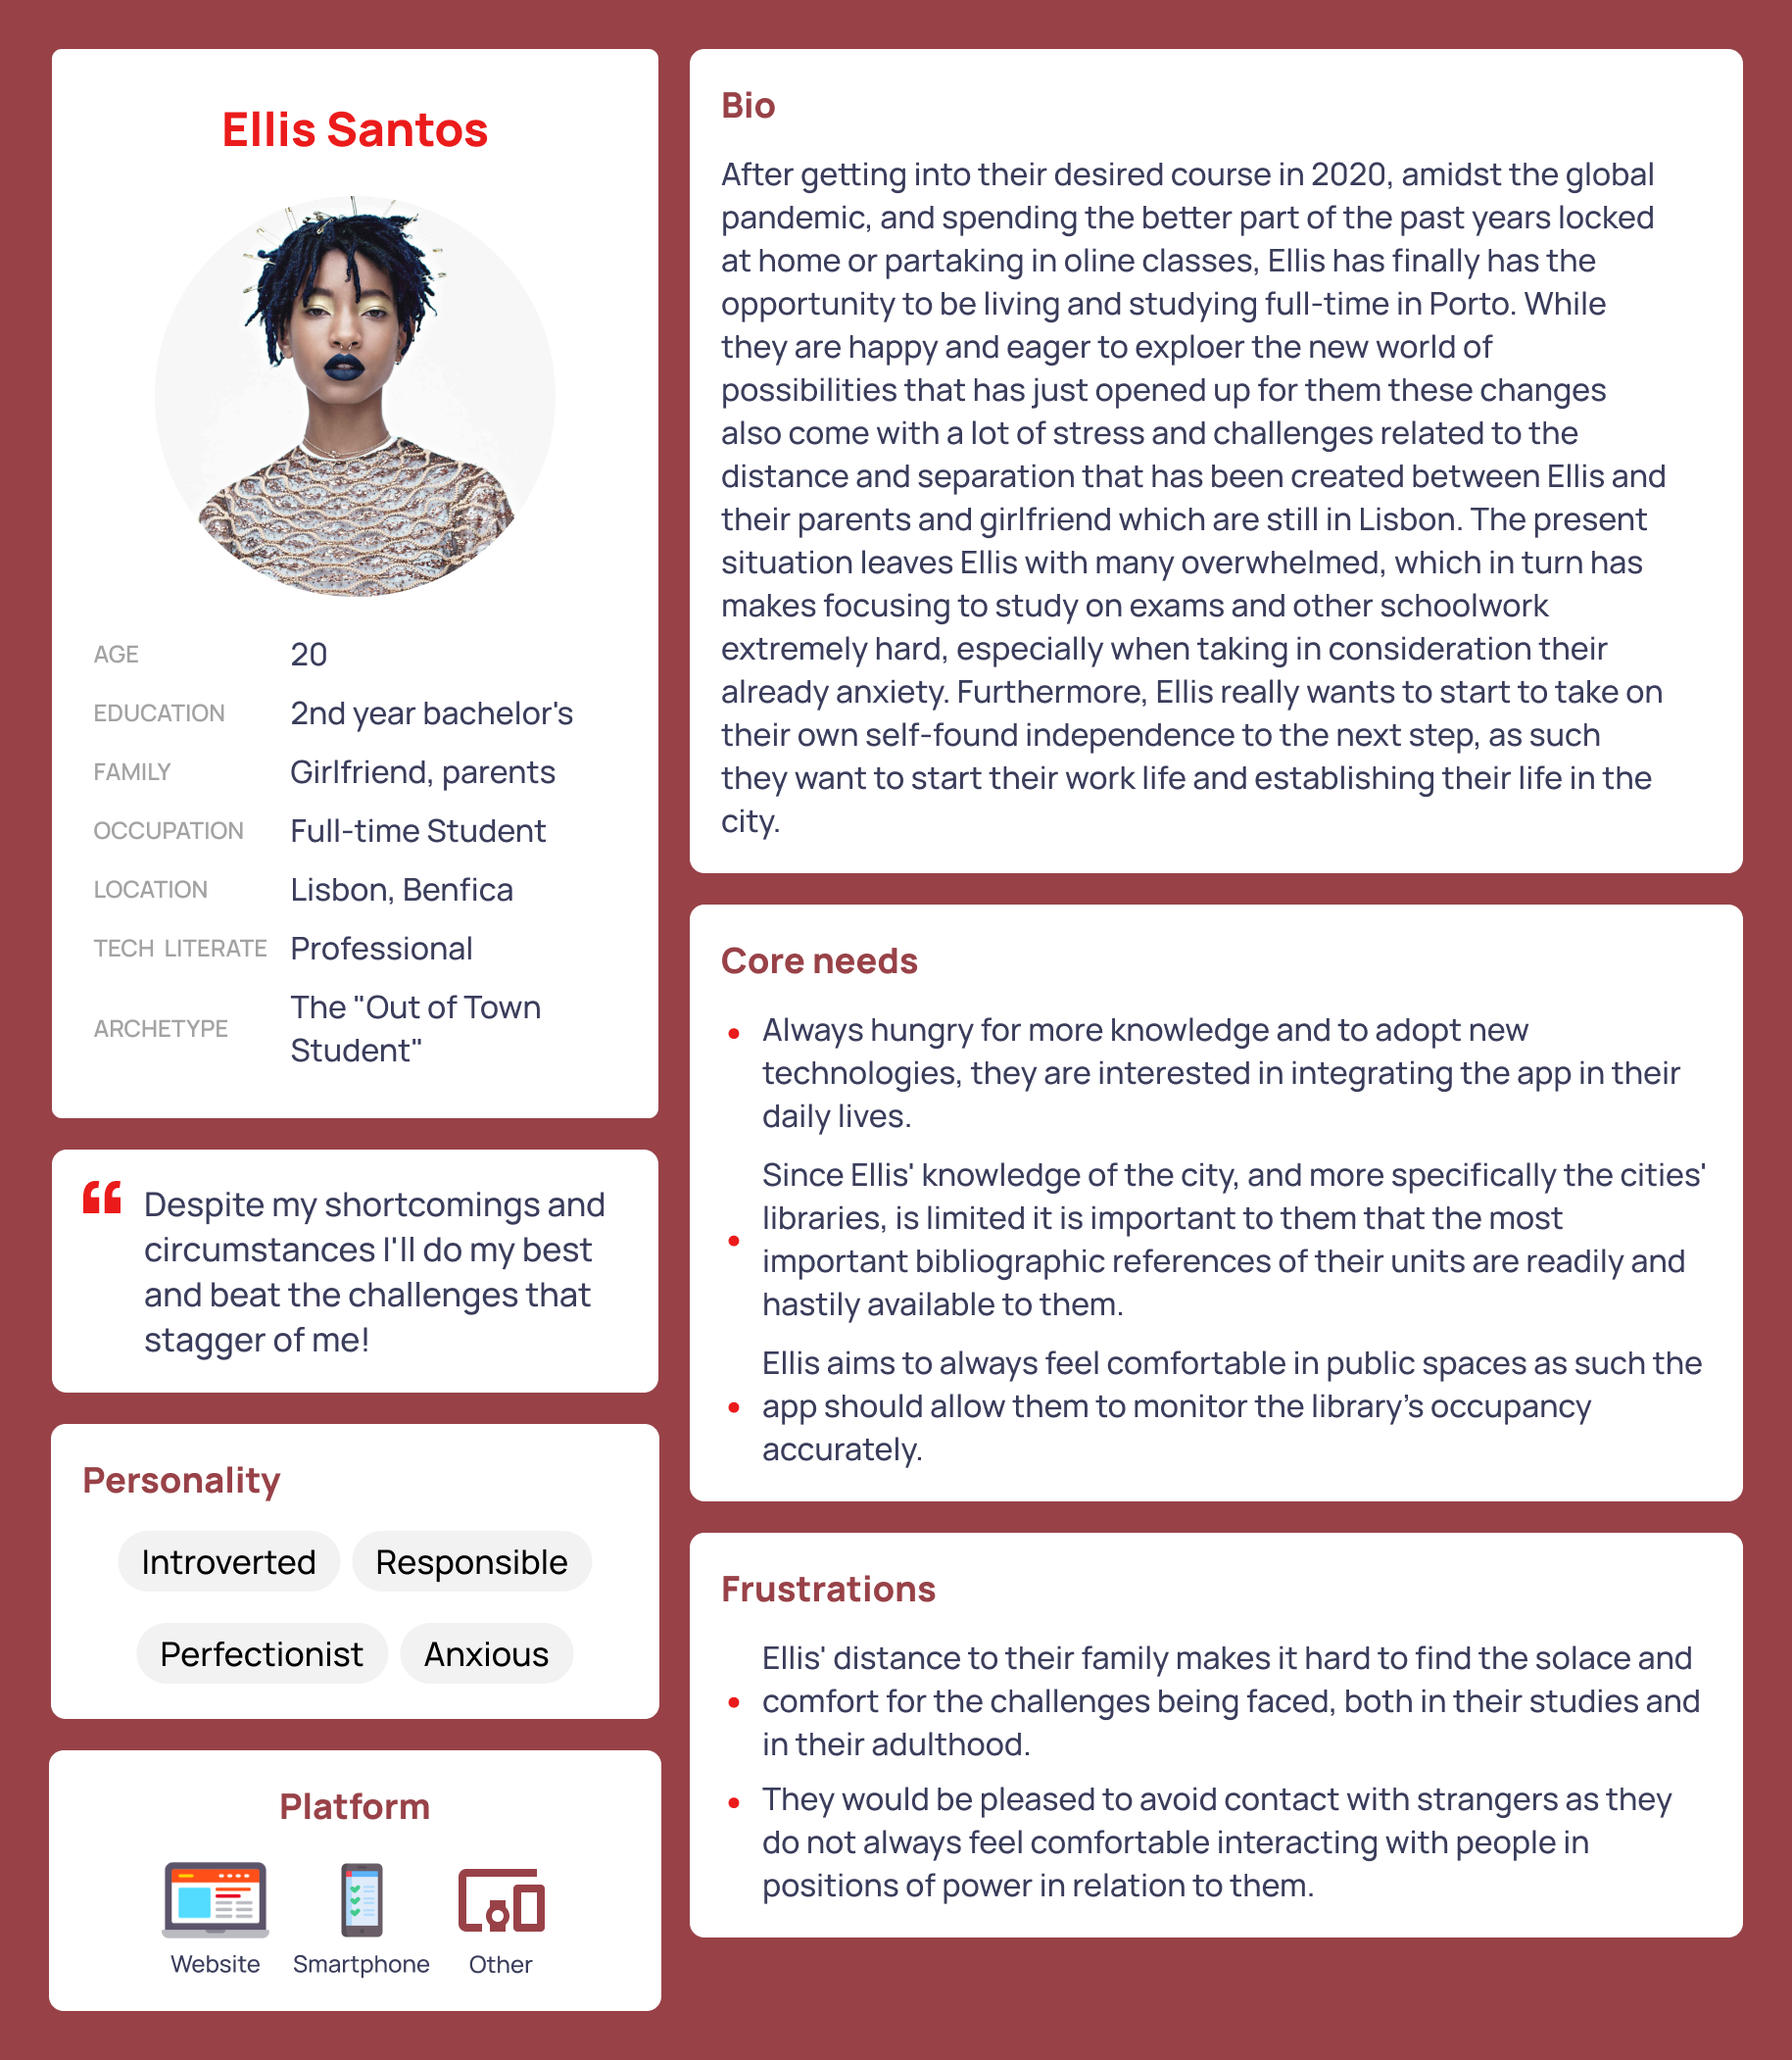
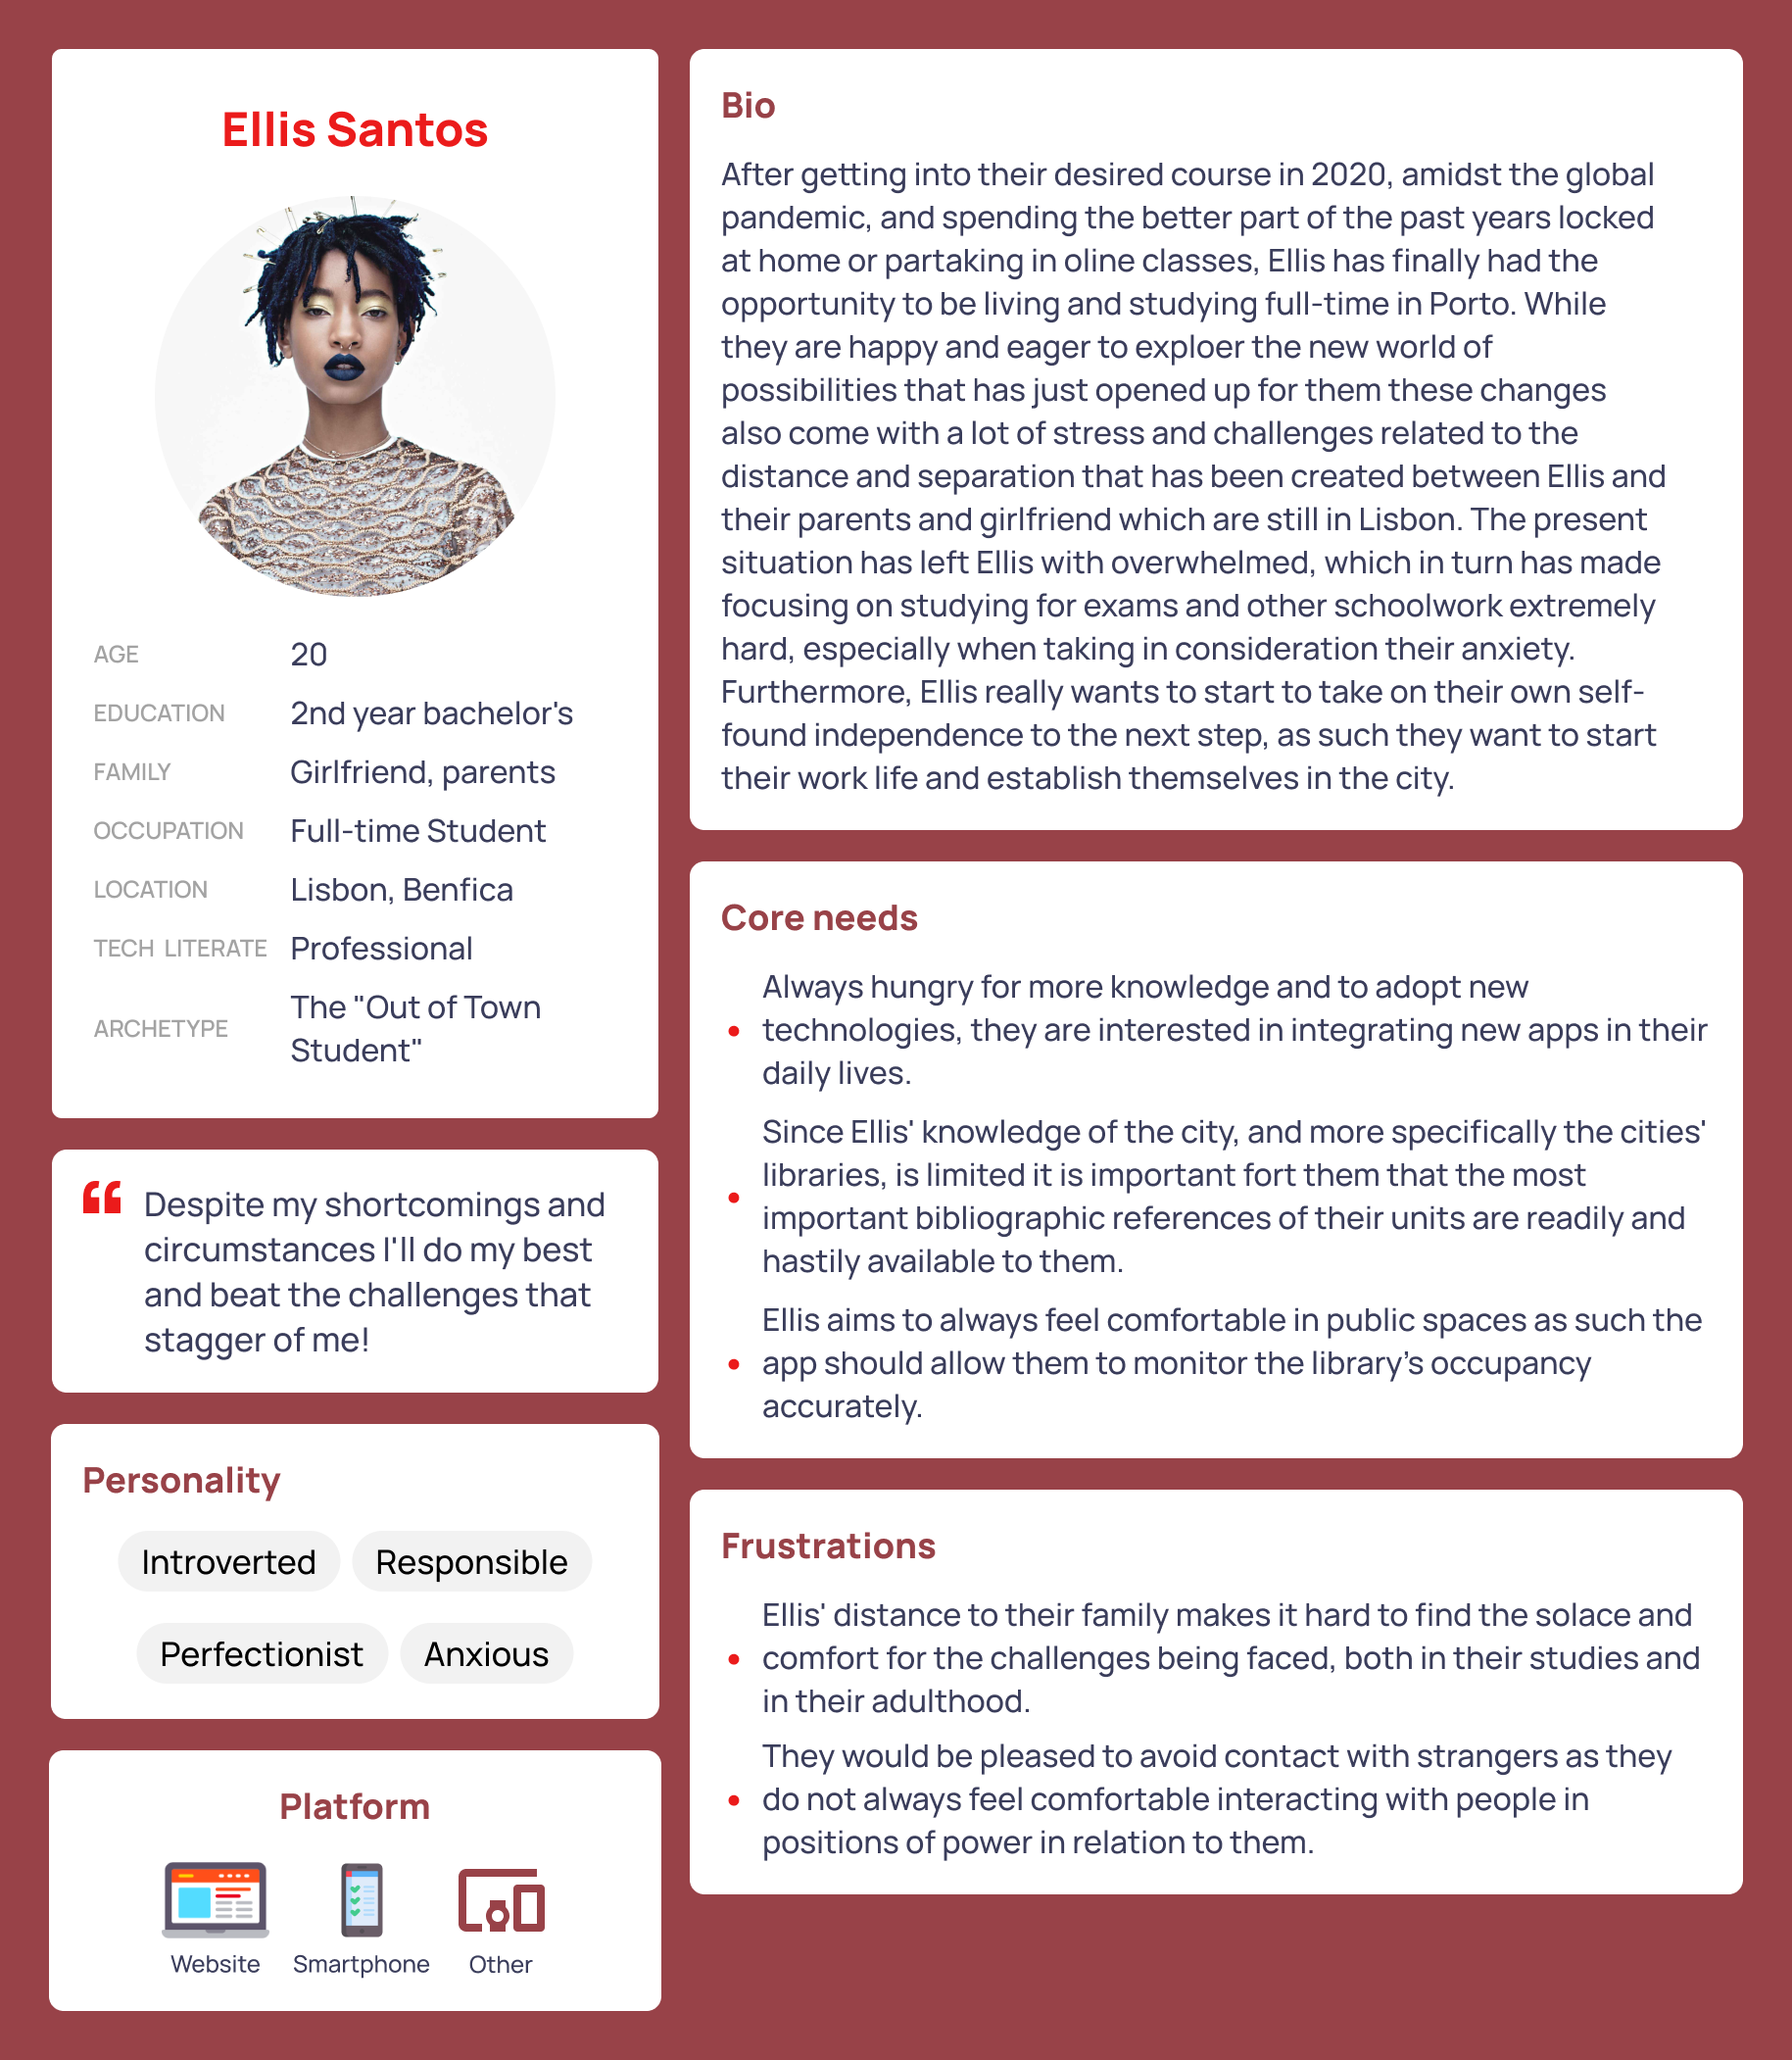
fixed personas and started working on first delivery

Changed region(s): [[0.374, 0.2474, 0.9973, 0.9586]]

diff --git a/delivery1.md b/delivery1.md
@@ -1,0 +1,44 @@
+### Project’s idea description
+
+### Related apps/services/systems
+
+- FEUP's library website: a simple website for the SDI services.
+    - Pros: 
+        - Access to a very big database filled with resources provided directly by the uni;
+    - Cons:
+        - Outdated interface which is hard for new users to get to grips with;
+        - Lack of real-time information, mainly the number of vacant places;
+        - Difficulty in finding physically available books and papers;
+- UNI: an app developed by NIAEFEUP with the goal of providing easy mobile access to some of FEUP's services.
+    - Pros:
+        - Very big userbase within FEUP;
+        - Already uniting multiple facets of the services necessary for the students in a single place;
+    - Cons:
+        - Sometimes inconsistent interface among its multiple pages;
+
+### Questionnaire
+
+After leaving the questionnaire open for answers for about 1 week, and sharing it within group chats and asking for answers in person, a total of 17 people responded to the Google Forms.
+
+With a characteristic demography consiting in its majority of male (76.5% male, 17.6% female, 5.9% nonbinary) students, all of which with ages between 19 and 20 and with a majority of 3rd year bachelor's (82.4% 3rd yearbachelor's, 11.8% 1st year master's, 5.9% 2nd year bachelor's), mostly from the L.EIC/M.EIC course (94,1% L.EIC/M.EIM, 5.9% L.EQ/M.EQ).
+
+When questioned about their personal experiences with the library's services the replies revealed that there were several different type of habits. Whilst it's almost unanimous that the services are acessible and that the most common activity in the library was studying and using the computers, the frequency of attendence to the library was not so straight forward. About one third on enquirees using the library sporadicaly a few times during a month, while another third visits it once a week and only a quarter never attend it, with the remainder 1 answer claiming to use it multiple times per week.
+Events proved to be absent from all of the answerers visits of the library with most of them pointing out a lack of interest and a lack of awareness to these events as the causes of not attending them.
+Still in this section we were able to understand that the majority of the people did not read or consult the literature required by their units as it didn't seem necessary or there were other formats not available in the library (video, websites, ...).
+
+Inquiring about the functionalities that we had planned and other platforms the data revealed that users are the most happy while using UNI, are content with Moodle and clearly do not like using Sigarra. For the minority of user's that knew about the library's website, their experience with the website was negative.
+As for the relevance of the features that were planned, answers revealed a big interest in the availabilty of books as well as seats, whilst upcoming events proved to be not as relevant as expected.
+
+### Personas
+
+![Ellis Santos](UX%20Persona%20-%20Ellis%20Santos.png)
+![Lucas Mendes](UX%20Persona%20-%20Lucas%20Mendes.png)
+![Maria Joana](UX%20Persona-%20Maria%20Joanapng.png)
+
+### Activity scenarios
+
+
+
+### Functionalities and tasks
+
+### Usability requirements
